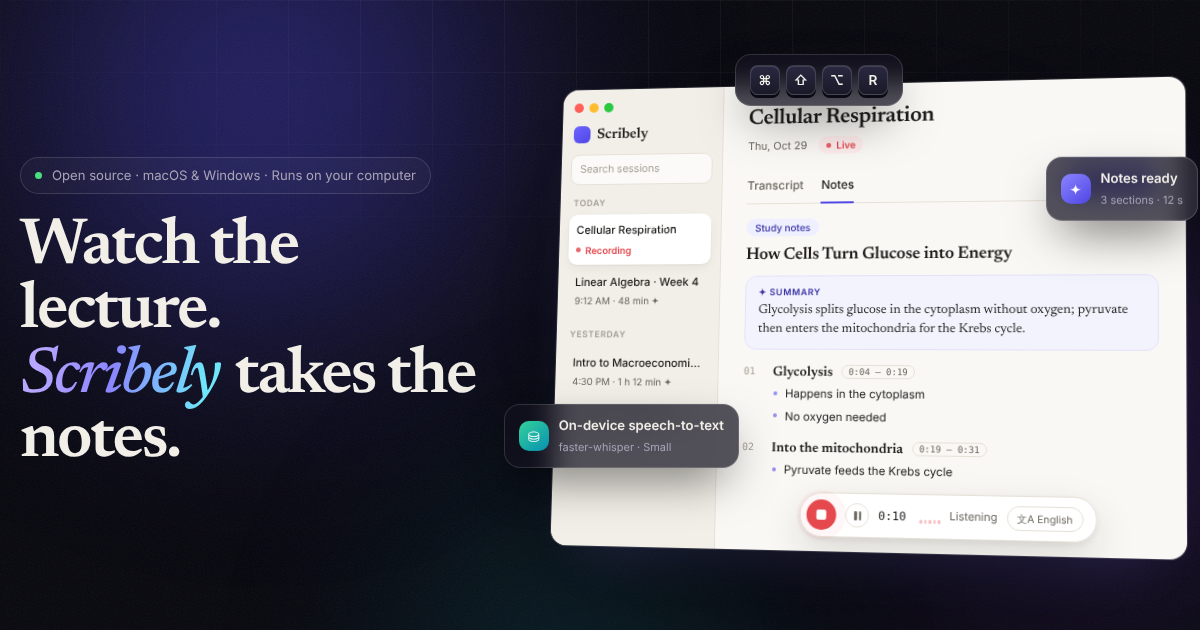
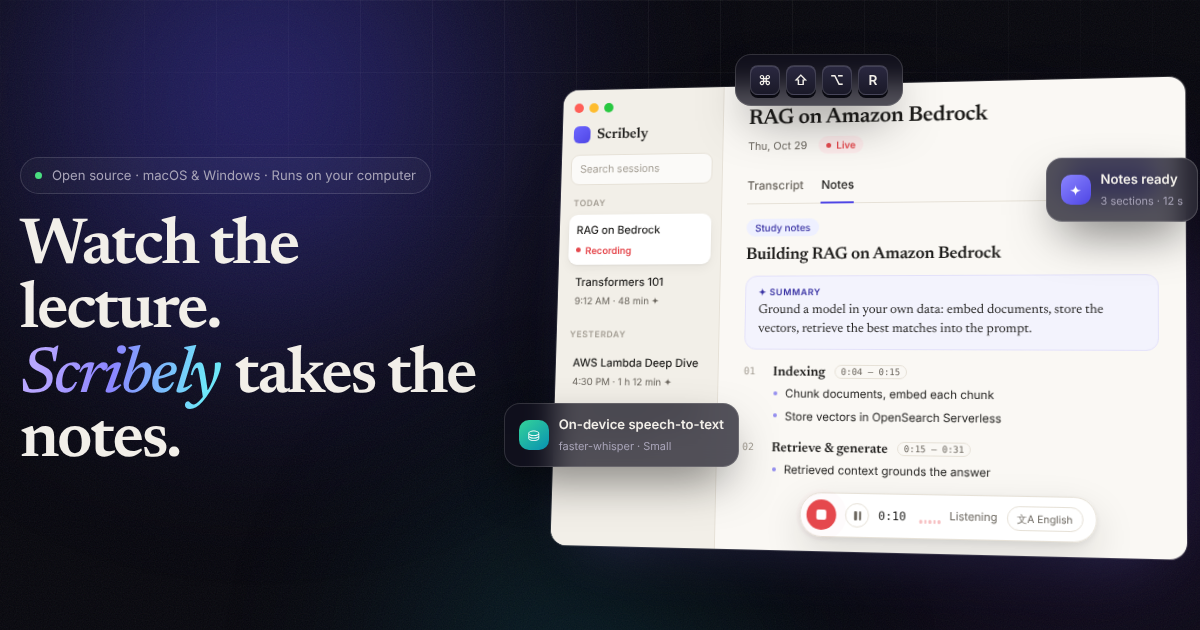
Website: GenAI/AWS sample lecture instead of biology
The app recreation, scroll story, search and export samples now show a lecture
on building RAG with Amazon Bedrock; social preview image regenerated. Also
fixes the live-preview caret wrapping and the story panel overflowing on phones.

Claude-Session: https://claude.ai/code/session_014SWkgx2eXmKULQzj3wn9EH

diff --git a/site/index.html b/site/index.html
@@ -65,21 +65,21 @@
   <div class="hero-stage reveal" data-tilt>
     <div class="glow" aria-hidden="true"></div>
     <!-- The app, recreated -->
-    <div class="app" role="img" aria-label="The Scribely app transcribing a biology lecture live, then showing generated notes">
+    <div class="app" role="img" aria-label="The Scribely app transcribing a generative AI lecture live, then showing generated notes">
       <div class="app-side">
         <div class="app-traffic"><i></i><i></i><i></i></div>
         <div class="app-logo"><span></span>Scribely</div>
         <div class="app-search">Search sessions</div>
         <p class="app-group">Today</p>
-        <div class="app-item active"><b>Cellular Respiration</b><small class="rec-label"><i></i>Recording</small></div>
-        <div class="app-item"><b>Linear Algebra · Week 4</b><small>9:12 AM · 48 min ✦</small></div>
+        <div class="app-item active"><b>RAG on Bedrock</b><small class="rec-label"><i></i>Recording</small></div>
+        <div class="app-item"><b>Transformers 101</b><small>9:12 AM · 48 min ✦</small></div>
         <p class="app-group">Yesterday</p>
-        <div class="app-item"><b>Intro to Macroeconomics</b><small>4:30 PM · 1 h 12 min ✦</small></div>
-        <div class="app-item"><b>Organic Chemistry 2</b><small>11:05 AM · 55 min</small></div>
+        <div class="app-item"><b>AWS Lambda Deep Dive</b><small>4:30 PM · 1 h 12 min ✦</small></div>
+        <div class="app-item"><b>Prompt Engineering 101</b><small>11:05 AM · 55 min</small></div>
       </div>
       <div class="app-main">
         <div class="app-head">
-          <h3>Cellular Respiration</h3>
+          <h3>RAG on Amazon Bedrock</h3>
           <p><span>Thu, Oct 29</span><span class="live"><i></i>Live</span></p>
           <div class="app-tabs"><span class="on" data-tab="t">Transcript</span><span data-tab="n">Notes</span><b class="app-sum">✦ Summarize</b></div>
         </div>
@@ -87,10 +87,10 @@
           <ol class="app-transcript" id="demoTranscript"></ol>
           <div class="app-notes" id="demoNotes">
             <span class="pill">Study notes</span>
-            <h4>How Cells Turn Glucose into Energy</h4>
-            <div class="summary"><small>✦ Summary</small>Glycolysis splits glucose in the cytoplasm without oxygen; pyruvate then enters the mitochondria for the Krebs cycle.</div>
-            <div class="sec"><span>01</span><div><b>Glycolysis <em>0:04 – 0:19</em></b><p>Happens in the cytoplasm</p><p>No oxygen needed</p></div></div>
-            <div class="sec"><span>02</span><div><b>Into the mitochondria <em>0:19 – 0:31</em></b><p>Pyruvate feeds the Krebs cycle</p></div></div>
+            <h4>Building RAG on Amazon Bedrock</h4>
+            <div class="summary"><small>✦ Summary</small>Ground a model in your own data: embed documents, store the vectors, retrieve the best matches into the prompt.</div>
+            <div class="sec"><span>01</span><div><b>Indexing <em>0:04 – 0:15</em></b><p>Chunk documents, embed each chunk</p><p>Store vectors in OpenSearch Serverless</p></div></div>
+            <div class="sec"><span>02</span><div><b>Retrieve &amp; generate <em>0:15 – 0:31</em></b><p>Retrieved context grounds the answer</p></div></div>
           </div>
         </div>
         <div class="app-dock">
@@ -154,27 +154,27 @@
         </div>
         <div class="stage s1">
           <ol class="stage-lines">
-            <li><time>0:00</time>Today we're looking at how cells turn glucose into usable energy.</li>
-            <li><time>0:04</time>The first stage, glycolysis, happens in the cytoplasm.</li>
-            <li><time>0:09</time>It doesn't need oxygen, and it splits one glucose into two pyruvate.</li>
-            <li><time>0:15</time>Next, pyruvate moves into the mitochondria for the Krebs cycle.</li>
-            <li class="partial"><time>0:21</time>Each turn of the cycle releases<span class="caret"></span></li>
+            <li><time>0:00</time>Today we're building a retrieval-augmented generation pipeline on Amazon Bedrock.</li>
+            <li><time>0:04</time>First, we split our documents into chunks and turn each chunk into an embedding.</li>
+            <li><time>0:09</time>Those vectors go into a vector store, here OpenSearch Serverless.</li>
+            <li><time>0:15</time>At query time we embed the question and retrieve the closest chunks.</li>
+            <li class="partial"><time>0:21</time><span>The retrieved context goes into the prompt<span class="caret"></span></span></li>
           </ol>
         </div>
         <div class="stage s2">
           <div class="note-doc">
-            <h4>How Cells Turn Glucose into Energy</h4>
-            <div class="summary"><small>✦ Summary</small>Glycolysis splits glucose in the cytoplasm without oxygen, producing pyruvate that fuels the Krebs cycle in the mitochondria.</div>
-            <div class="sec"><span>01</span><div><b>Glycolysis <em>0:04 – 0:15</em></b><p>Takes place in the cytoplasm</p><p>Anaerobic: no oxygen required</p><p>1 glucose → 2 pyruvate</p></div></div>
-            <div class="sec"><span>02</span><div><b>The Krebs cycle <em>0:15 – 0:31</em></b><p>Runs inside the mitochondria</p><p>Releases CO₂ and energy carriers</p></div></div>
+            <h4>Building RAG on Amazon Bedrock</h4>
+            <div class="summary"><small>✦ Summary</small>Retrieval-augmented generation grounds a foundation model in your own documents, so answers stay accurate and current without retraining.</div>
+            <div class="sec"><span>01</span><div><b>Indexing <em>0:04 – 0:15</em></b><p>Split documents into chunks</p><p>Embed each chunk with Titan Embeddings</p><p>Store vectors in OpenSearch Serverless</p></div></div>
+            <div class="sec"><span>02</span><div><b>Retrieve &amp; generate <em>0:15 – 0:31</em></b><p>Embed the question, fetch the nearest chunks</p><p>Add them to the prompt to ground the answer</p></div></div>
           </div>
         </div>
         <div class="stage s3">
           <div class="styles-row"><span class="chip on">Study outline</span><span class="chip">Q&amp;A</span><span class="chip">Condensed</span></div>
           <div class="qa">
-            <div><b>Where does glycolysis happen?</b><p>In the cytoplasm.</p></div>
-            <div><b>Does it need oxygen?</b><p>No. It's anaerobic.</p></div>
-            <div><b>What does it produce?</b><p>Two pyruvate molecules per glucose.</p></div>
+            <div><b>What does RAG add to a model?</b><p>Your own data, retrieved at question time.</p></div>
+            <div><b>Where do the embeddings live?</b><p>In a vector store such as OpenSearch Serverless.</p></div>
+            <div><b>Why fewer hallucinations?</b><p>Answers are grounded in the retrieved context.</p></div>
           </div>
           <div class="export-row"><span class="file pdf">PDF</span><span class="file html">HTML</span><span class="saved">Saved to exports/</span></div>
         </div>
@@ -198,7 +198,7 @@
     <article class="card c-search reveal">
       <div class="card-art search-art">
         <div class="search-box"><span class="mag"></span><span id="searchType"></span><span class="caret"></span></div>
-        <div class="result"><b>Cellular Respiration</b><p>…splits one glucose into two molecules of <mark>pyruvate</mark>.</p><small>Transcript · 0:09</small></div>
+        <div class="result"><b>RAG on Amazon Bedrock</b><p>…and turn each chunk into an <mark>embedding</mark>.</p><small>Transcript · 0:04</small></div>
       </div>
       <h3>Search everything</h3>
       <p>Titles, notes and transcripts. Jump straight to the line where it was said.</p>
@@ -237,7 +237,7 @@
       <p>Long transcripts are split to fit the model, summarized in parallel and merged into one set of notes.</p>
     </article>
     <article class="card c-export reveal">
-      <div class="card-art export-art"><div class="page p3"></div><div class="page p2"></div><div class="page p1"><b>How Cells Turn Glucose…</b><i></i><i></i><i class="s"></i><i></i></div></div>
+      <div class="card-art export-art"><div class="page p3"></div><div class="page p2"></div><div class="page p1"><b>Building RAG on Bedrock</b><i></i><i></i><i class="s"></i><i></i></div></div>
       <h3>PDF that looks designed</h3>
       <p>Export notes and the full transcript as a polished PDF or a standalone web page.</p>
     </article>

diff --git a/site/main.js b/site/main.js
@@ -39,12 +39,12 @@
 
   /* ---------- hero: the app demo ---------- */
   const LINES = [
-    [0, "Today we're looking at how cells turn glucose into usable energy."],
-    [4, "The first stage, glycolysis, happens in the cytoplasm."],
-    [9, "It doesn't need oxygen, and it splits one glucose into two pyruvate."],
-    [15, "Next, pyruvate moves into the mitochondria for the Krebs cycle."],
-    [21, "Each turn of the cycle releases carbon dioxide and energy carriers."],
-    [27, "Those carriers power the electron transport chain, which makes most ATP."],
+    [0, "Today we're building a retrieval-augmented generation pipeline on Amazon Bedrock."],
+    [4, "First, we split our documents into chunks and turn each chunk into an embedding."],
+    [9, "Those vectors go into a vector store, here OpenSearch Serverless."],
+    [15, "At query time we embed the question and retrieve the closest chunks."],
+    [21, "The retrieved context goes into the prompt, so the model answers from our data."],
+    [27, "That grounding keeps hallucinations down and answers up to date."],
   ];
   const transcript = $("#demoTranscript");
   const timerEl = $("#demoTimer");
@@ -216,7 +216,7 @@
   const searchArt = $(".search-art");
   const typed = $("#searchType");
   if (reduceMotion) {
-    typed.textContent = "pyruvate";
+    typed.textContent = "embedding";
     searchArt.classList.add("found");
   } else {
     (async function typeLoop() {
@@ -224,7 +224,7 @@
         searchArt.classList.remove("found");
         typed.textContent = "";
         await sleep(900);
-        for (const ch of "pyruvate") { typed.textContent += ch; await sleep(110); }
+        for (const ch of "embedding") { typed.textContent += ch; await sleep(110); }
         await sleep(250);
         searchArt.classList.add("found");
         await sleep(3200);

diff --git a/site/styles.css b/site/styles.css
@@ -534,7 +534,9 @@ section { width: min(1180px, calc(100% - 40px)); margin: 0 auto; }
   .story-stage { height: 330px; top: 80px; }
   .stage { padding: 20px; }
   #wave { height: 170px; }
-  .stage-lines li { font-size: 0.9rem; grid-template-columns: 38px 1fr; gap: 10px; }
+  .stage-lines { gap: 10px; }
+  .stage-lines li { font-size: 0.86rem; grid-template-columns: 38px 1fr; gap: 10px; }
+  .stage-lines li:first-child { display: none; }
   .note-doc { padding: 16px; }
   .term { font-size: 0.78rem; padding: 20px; }
   .term-bar .tdots { display: none; }
